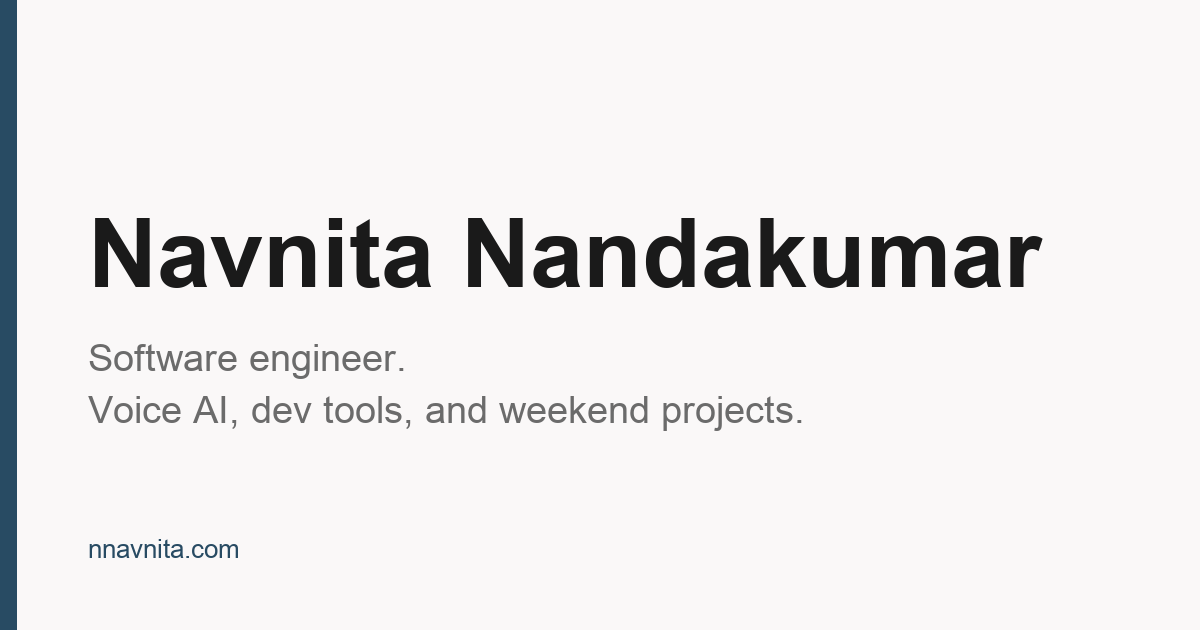
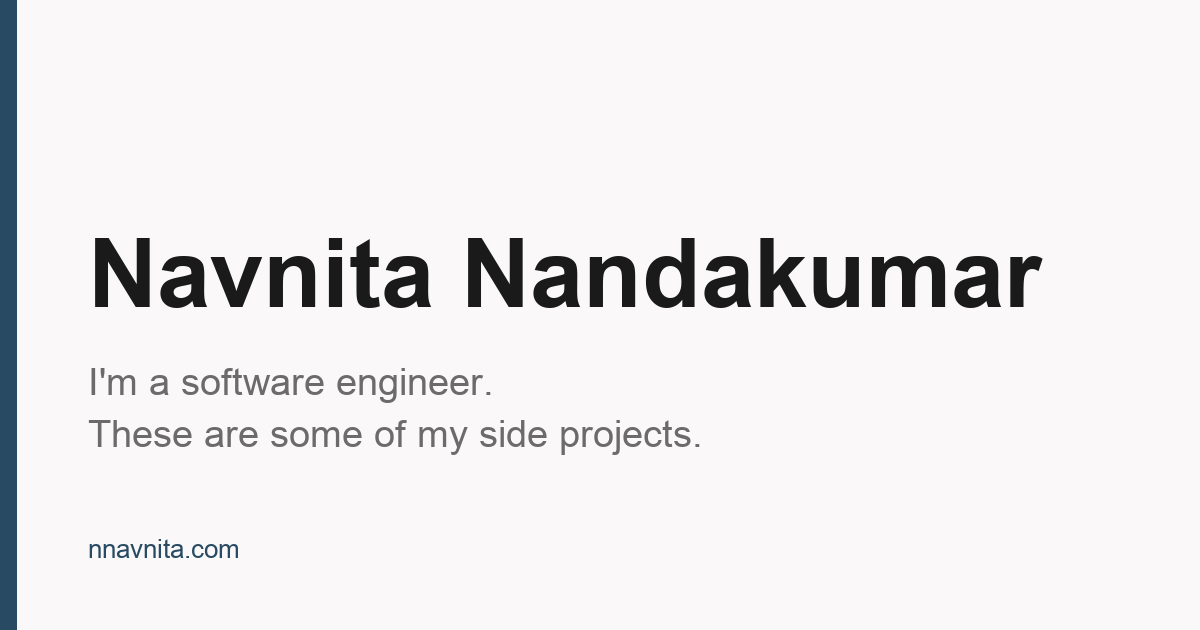
site: simplify hero tagline and OG copy
Replace "Software engineer. Voice AI, dev tools, and weekend projects."
with "I'm a software engineer. These are some of my side projects."
across the hero, meta description, Open Graph / Twitter tags, and the
og.png image.

Changed region(s): [[0.0617, 0.3317, 0.8633, 0.5127], [0.0617, 0.5429, 0.6783, 0.7238]]

diff --git a/index.html b/index.html
@@ -4,18 +4,18 @@
     <meta charset="utf-8" />
     <meta name="viewport" content="width=device-width, initial-scale=1" />
     <title>Navnita Nandakumar — software engineer</title>
-    <meta name="description" content="Navnita Nandakumar — software engineer. Voice AI, dev tools, and weekend projects." />
+    <meta name="description" content="Navnita Nandakumar — software engineer. Some of my side projects." />
     <link rel="icon" type="image/svg+xml" href="/favicon.svg" />
 
     <!-- Open Graph / social share -->
     <meta property="og:type" content="website" />
     <meta property="og:title" content="Navnita Nandakumar" />
-    <meta property="og:description" content="Software engineer. Voice AI, dev tools, and weekend projects." />
+    <meta property="og:description" content="I'm a software engineer. These are some of my side projects." />
     <meta property="og:image" content="https://nnavnita.com/og.png" />
     <meta property="og:url" content="https://nnavnita.com/" />
     <meta name="twitter:card" content="summary_large_image" />
     <meta name="twitter:title" content="Navnita Nandakumar" />
-    <meta name="twitter:description" content="Software engineer. Voice AI, dev tools, and weekend projects." />
+    <meta name="twitter:description" content="I'm a software engineer. These are some of my side projects." />
     <meta name="twitter:image" content="https://nnavnita.com/og.png" />
 
     <link rel="preconnect" href="https://rsms.me/" />
@@ -238,7 +238,7 @@
         <img class="avatar" src="https://github.com/nnavnita.png?size=200" alt="Navnita Nandakumar" width="72" height="72" loading="eager" />
         <div class="hero-text">
           <h1>Navnita Nandakumar</h1>
-          <p>Software engineer. Voice AI, dev tools, and weekend projects.</p>
+          <p>I'm a software engineer. These are some of my side projects.</p>
         </div>
       </section>
 

diff --git a/scripts/build_og.py b/scripts/build_og.py
@@ -55,16 +55,16 @@ def main() -> int:
     small_font = _load_font(26, "regular")
 
     x = 88
-    draw.text((x, 200), "Navnita Nandakumar", fill=INK, font=name_font)
+    draw.text((x, 220), "Navnita Nandakumar", fill=INK, font=name_font)
     draw.text(
-        (x, 336),
-        "Software engineer.",
+        (x, 360),
+        "I'm a software engineer.",
         fill=MUTED,
         font=tagline_font,
     )
     draw.text(
-        (x, 388),
-        "Voice AI, dev tools, and weekend projects.",
+        (x, 412),
+        "These are some of my side projects.",
         fill=MUTED,
         font=tagline_font,
     )
